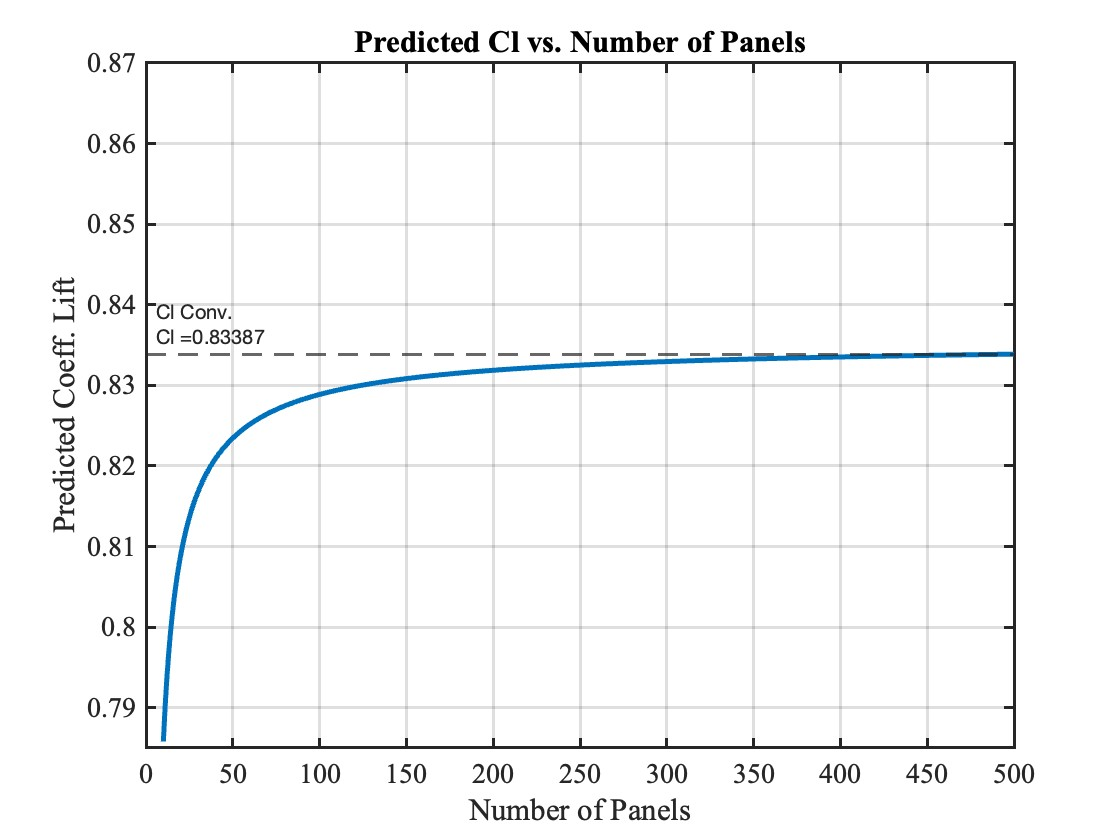
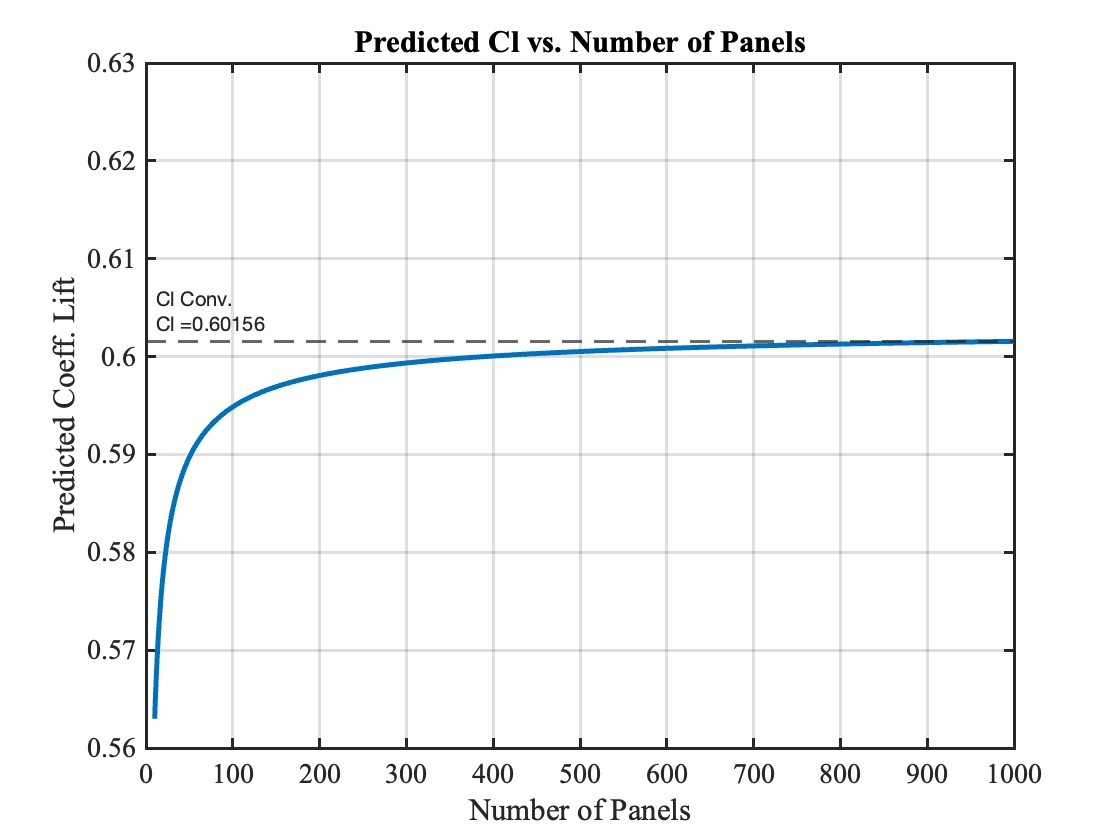
Cl conv. graph fix
was converging to diff value

diff --git a/mainDriver.m b/mainDriver.m
@@ -11,23 +11,23 @@ clc;
 % -----------------------------------------
 %% PART 1 TASK 1 
 % -----------------------------------------
-
-
-% user input and parsing
-c = input('enter chord length: ');
-Naca = input('1st Digit, 2nd Digit,3rd and 4th: ','s');
-panels = input('Numbers of panels: ');
-C = strsplit(Naca,',');
-airfoil = strcat(C{1},C{2},C{3});
-Parts = str2double(C);
-
-% defining variables to pass into function
-m = ((Parts(1)/100)); 
-p = ((Parts(2)/10));
-t = ((Parts(3)/100));
-
-% function call to generate airfoil plot 
-[XB,YB] = airfoilGen(m,p,t,c,panels,airfoil,1);
+% 
+% 
+% % user input and parsing
+% c = input('enter chord length: ');
+% Naca = input('1st Digit, 2nd Digit,3rd and 4th: ','s');
+% panels = input('Numbers of panels: ');
+% C = strsplit(Naca,',');
+% airfoil = strcat(C{1},C{2},C{3});
+% Parts = str2double(C);
+% 
+% % defining variables to pass into function
+% m = ((Parts(1)/100)); 
+% p = ((Parts(2)/10));
+% t = ((Parts(3)/100));
+% 
+% % function call to generate airfoil plot 
+% [XB,YB] = airfoilGen(m,p,t,c,panels,airfoil,1);
 
 % -----------------------------------------
 %% PART 1 TASK 2
@@ -35,47 +35,47 @@ t = ((Parts(3)/100));
 
 % -------------------Deliverable 1----------------------
 % Params for NACA0012 at 5 degrees angle of attack
-% c2 = 5; 
-% m2 = 0;
-% p2 = 0; 
-% t2 =.12*c2; 
-% alpha = 5; 
-% 
-% % length of numPanels to test
-% numPanels = 10:1:200;
-% cl = zeros(length(numPanels),1);
-% 
-% % looping through panels and getting corresponding cl 
-% for i = 1: length(numPanels)
-% 
-%     % function call to airfoilGen with NACA0012 info
-% [XB2,YB2] = airfoilGen(m2,p2,t2,c2,numPanels(i),'0012',0);
-% 
-% % function call to vortex panel to 
-% [cl(i)] = Vortex_Panel(XB2,YB2,alpha);
-% end
-% 
-% % max CL from cl vs. num panels
-% CL_Max = max(cl);
-% Clstr = strcat('Cl = ',num2str(CL_Max));
-% 
-% % Loop to get error and determin number of panels to achieve cl within 1
-% % percent
-% for i = 1: length(cl)
-% err(i) = (abs(CL_Max - cl(i)) / CL_Max)*100;
-% end
-% 
-% [~,numPanelsForExact] = find(err<1,1);
-% 
-% 
-% % plotting cl vs. number of panels 
-% figure();
-% plot(numPanels,cl);
-% xlabel('Number of Panels');
-% ylabel('Predicted Coeff. Lift');
-% yline(CL_Max,'--',{'Cl Conv.',Clstr},LineWidth=1.5,LabelHorizontalAlignment='left');
-% ylim([.785,.87]);
-% title('Predicted Cl vs. Number of Panels');
+c2 = 5; 
+m2 = 0;
+p2 = 0; 
+t2 =.12; 
+alpha = 5; 
+
+% length of numPanels to test
+numPanels = 10:1:500;
+cl = zeros(length(numPanels),1);
+
+% looping through panels and getting corresponding cl 
+for i = 1: length(numPanels)
+
+    % function call to airfoilGen with NACA0012 info
+[XB2,YB2] = airfoilGen(m2,p2,t2,c2,numPanels(i),'0012',0);
+
+% function call to vortex panel to 
+[cl(i)] = Vortex_Panel(XB2,YB2,alpha);
+end
+
+% max CL from cl vs. num panels
+CL_Max = max(cl);
+Clstr = strcat('Cl = ',num2str(CL_Max));
+
+% Loop to get error and determin number of panels to achieve cl within 1
+% percent
+for i = 1: length(cl)
+err(i) = (abs(CL_Max - cl(i)) / CL_Max)*100;
+end
+
+[~,numPanelsForExact] = find(err<1,1);
+
+
+% plotting cl vs. number of panels 
+figure();
+plot(numPanels,cl);
+xlabel('Number of Panels');
+ylabel('Predicted Coeff. Lift');
+yline(CL_Max,'--',{'Cl Conv.',Clstr},LineWidth=1.5,LabelHorizontalAlignment='left');
+ylim([.56,.63]);
+title('Predicted Cl vs. Number of Panels');
 
 % -----------------------------------------
 
@@ -107,7 +107,7 @@ t = ((Parts(3)/100));
 %             [airfoils(i).cl(j)] = Vortex_Panel(airfoils(i).XB3(:,i),airfoils(i).XB3(:,i),alphaVals(j));
 %         end
 %     end
-% 
+%     % Plotting cl vs. alpha
 %     figure();
 %     plot(alphaVals,airfoils(1).cl,'DisplayName',strcat('NACA',NACA{1}));
 %     hold on; 
